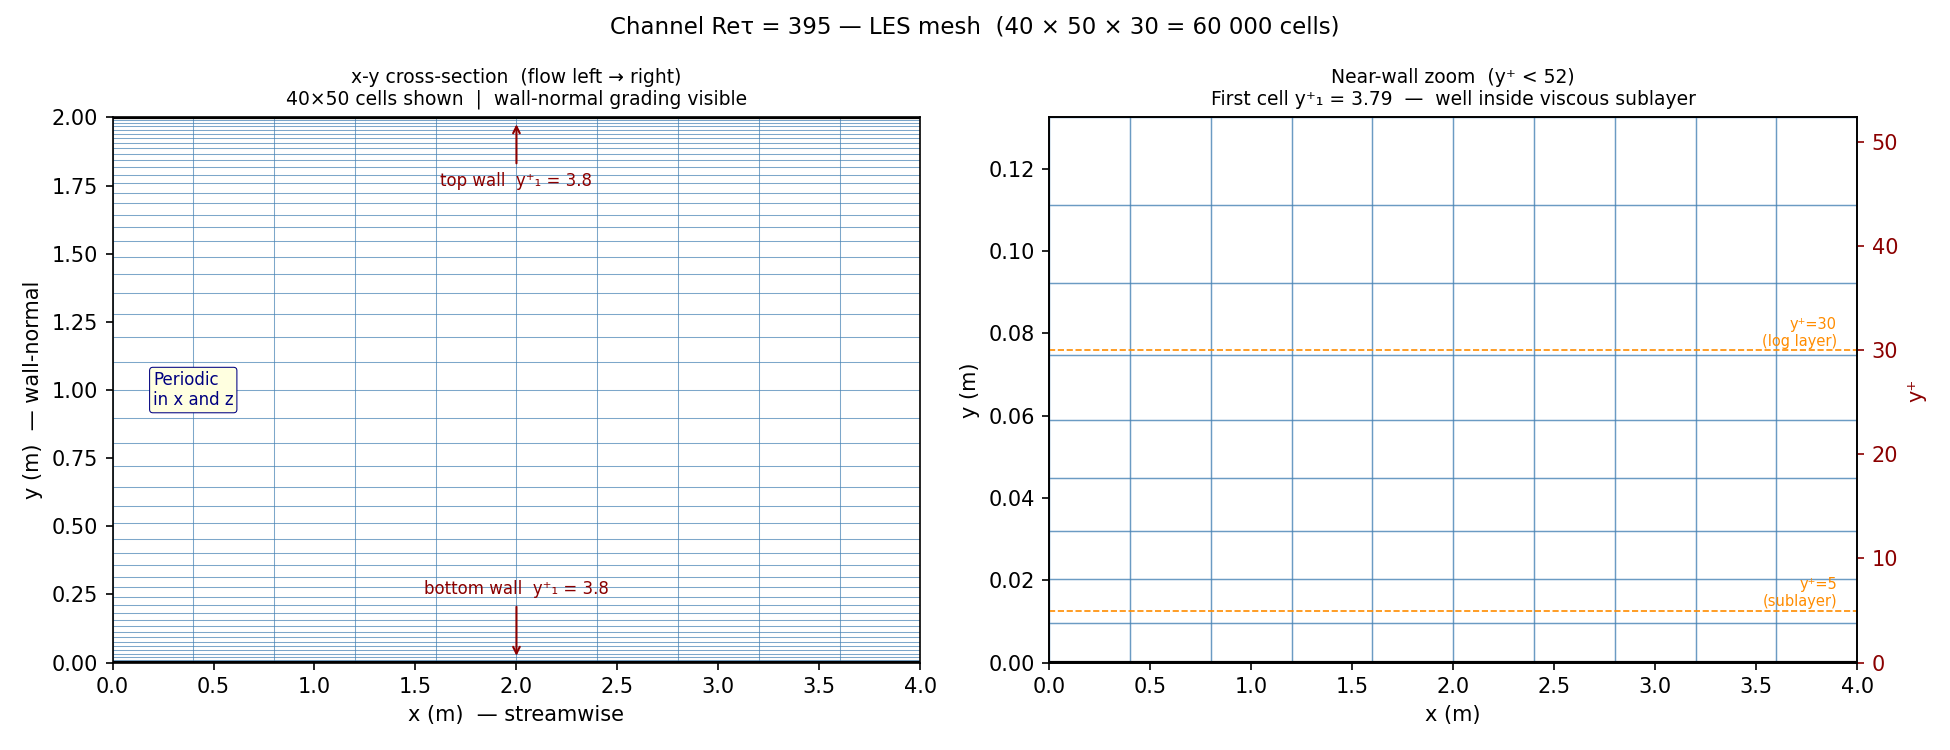
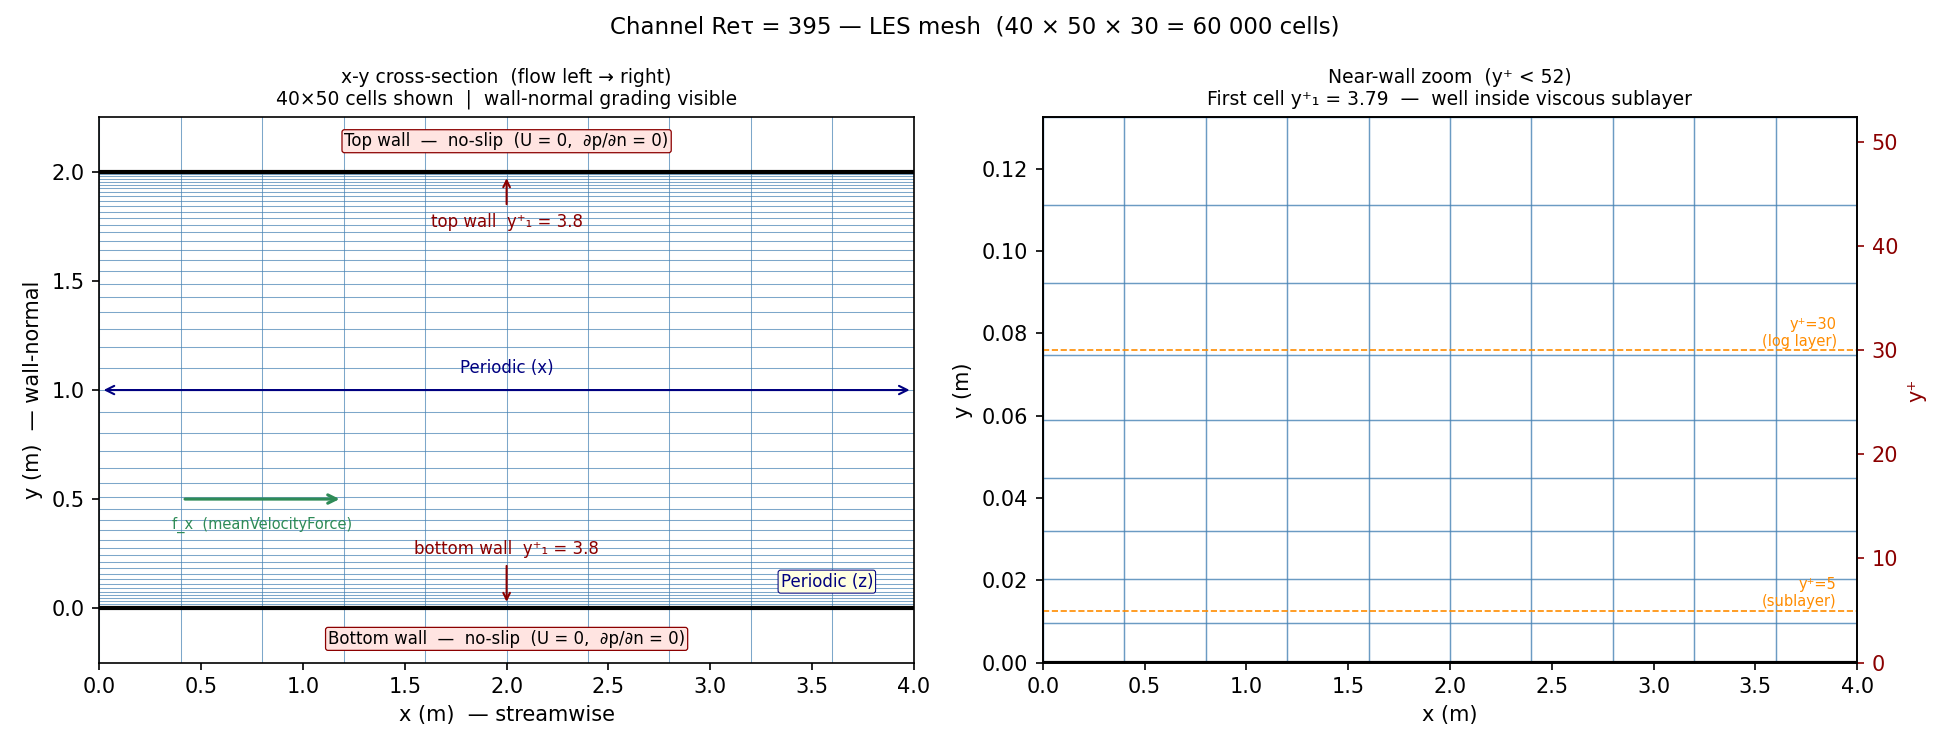
Add velocity contour plots and BC annotations to mesh diagram
- postprocess.py: reads VTK output (foamToVTK) to produce images/contours.png
  showing time-averaged and instantaneous streamwise velocity on z-midplane slice
- render_mesh.py: annotates boundary conditions on full mesh panel (no-slip walls,
  periodic x/z labels, meanVelocityForce body force arrow)

diff --git a/postprocess.py b/postprocess.py
@@ -4,6 +4,7 @@ Validates mean velocity and Reynolds stresses against Moser, Kim & Mansour (1999
 Produces:
   images/convergence.png  — mean streamwise velocity history
   images/validation.png   — U+ vs y+, k+ vs y+, -<u'v'>+ vs y+
+  images/contours.png     — x-y slice of mean and instantaneous streamwise velocity
 """
 
 import numpy as np
@@ -165,3 +166,86 @@ fig.tight_layout()
 fig.savefig(IMAGES / "convergence.png", dpi=150)
 plt.close(fig)
 print("convergence.png done")
+
+# ── Velocity contour plots from VTK (foamToVTK output) ───────────────────────
+VTK_FILE = Path("VTK/openfoam-channel395_5000.vtk")
+if VTK_FILE.exists():
+    try:
+        import vtk as _vtk
+        import vtk.util.numpy_support as vtk_np
+
+        reader = _vtk.vtkUnstructuredGridReader()
+        reader.SetFileName(str(VTK_FILE))
+        reader.ReadAllScalarsOn()
+        reader.ReadAllVectorsOn()
+        reader.Update()
+        grid = reader.GetOutput()
+
+        pts = vtk_np.vtk_to_numpy(grid.GetPoints().GetData())
+        pd  = grid.GetPointData()
+
+        def get_arr(name):
+            a = pd.GetArray(name)
+            return vtk_np.vtk_to_numpy(a) if a else None
+
+        UMean = get_arr("UMean")          # (N,3) time-averaged velocity
+        U_inst = get_arr("U")             # (N,3) instantaneous velocity
+
+        # Extract z-midplane slice (z closest to domain centre z=1.0)
+        z_unique = np.unique(pts[:, 2])
+        z_mid    = z_unique[np.argmin(np.abs(z_unique - 1.0))]
+        mask_z   = np.abs(pts[:, 2] - z_mid) < 1e-4
+
+        x_sl  = pts[mask_z, 0]
+        y_sl  = pts[mask_z, 1]
+        Um_sl = UMean[mask_z, 0]   # streamwise component of time-averaged U
+
+        # Wall units for y-axis label
+        yp_sl = y_sl * u_tau / nu
+        Up_sl = Um_sl / u_tau
+
+        fig, axes = plt.subplots(1, 2, figsize=(14, 4.5))
+
+        # ── Panel 1: mean streamwise velocity UMean_x ─────────────────────────
+        ax = axes[0]
+        sc = ax.scatter(x_sl, y_sl, c=Up_sl, cmap="RdYlBu_r", s=4,
+                        vmin=0, vmax=Up_sl.max() * 1.05, rasterized=True)
+        cb = fig.colorbar(sc, ax=ax, pad=0.02)
+        cb.set_label("U⁺ = ⟨U_x⟩ / u_τ", fontsize=9)
+        ax.axhline(0, color="k", lw=1.5)
+        ax.axhline(2, color="k", lw=1.5)
+        ax.set_xlabel("x (m) — streamwise", fontsize=10)
+        ax.set_ylabel("y (m) — wall-normal", fontsize=10)
+        ax.set_title("Time-averaged streamwise velocity ⟨U_x⟩⁺\n"
+                     f"z-midplane slice  (Reτ = {Re_tau:.0f}, WALE LES)", fontsize=9)
+        ax.set_xlim(0, 4); ax.set_ylim(0, 2)
+
+        # ── Panel 2: instantaneous streamwise velocity ─────────────────────────
+        if U_inst is not None:
+            Ui_sl  = U_inst[mask_z, 0] / u_tau
+            ax2 = axes[1]
+            sc2 = ax2.scatter(x_sl, y_sl, c=Ui_sl, cmap="RdYlBu_r", s=4,
+                              vmin=0, vmax=Ui_sl.max() * 1.05, rasterized=True)
+            cb2 = fig.colorbar(sc2, ax=ax2, pad=0.02)
+            cb2.set_label("U⁺ = U_x / u_τ", fontsize=9)
+            ax2.axhline(0, color="k", lw=1.5)
+            ax2.axhline(2, color="k", lw=1.5)
+            ax2.set_xlabel("x (m) — streamwise", fontsize=10)
+            ax2.set_ylabel("y (m) — wall-normal", fontsize=10)
+            ax2.set_title("Instantaneous streamwise velocity U_x⁺\n"
+                          "(turbulent structures visible near walls)", fontsize=9)
+            ax2.set_xlim(0, 4); ax2.set_ylim(0, 2)
+        else:
+            axes[1].set_visible(False)
+
+        fig.suptitle(f"Channel Reτ = {Re_tau:.0f} — LES velocity field at t = 5000 s",
+                     fontsize=11)
+        fig.tight_layout()
+        fig.savefig(IMAGES / "contours.png", dpi=150, bbox_inches="tight")
+        plt.close(fig)
+        print("contours.png done")
+
+    except ImportError:
+        print("vtk python package not found — skipping contours.png")
+else:
+    print(f"VTK file {VTK_FILE} not found — run foamToVTK first")

diff --git a/render_mesh.py b/render_mesh.py
@@ -55,7 +55,7 @@ for yv in y_all:
 ax.axhline(0, color="k", lw=2)
 ax.axhline(2, color="k", lw=2)
 ax.set_xlim(0, 4)
-ax.set_ylim(0, 2)
+ax.set_ylim(-0.25, 2.25)
 ax.set_xlabel("x (m)  — streamwise", fontsize=10)
 ax.set_ylabel("y (m)  — wall-normal", fontsize=10)
 ax.set_title("x-y cross-section  (flow left → right)\n"
@@ -67,9 +67,28 @@ ax.annotate(f"bottom wall  y⁺₁ = {yp1:.1f}", xy=(2, y_all[1]), xytext=(2, 0.
 ax.annotate(f"top wall  y⁺₁ = {yp1:.1f}", xy=(2, 2 - y_all[1]), xytext=(2, 1.75),
             ha="center", fontsize=8, color="darkred",
             arrowprops=dict(arrowstyle="->", color="darkred"))
-ax.text(0.2, 1.0, "Periodic\nin x and z", ha="left", va="center",
+# Boundary condition annotations
+# Bottom and top walls: no-slip
+ax.text(2.0, -0.10, "Bottom wall  —  no-slip  (U = 0,  ∂p/∂n = 0)",
+        ha="center", va="top", fontsize=8, color="k",
+        bbox=dict(boxstyle="round,pad=0.15", fc="mistyrose", ec="darkred", lw=0.6))
+ax.text(2.0, 2.10, "Top wall  —  no-slip  (U = 0,  ∂p/∂n = 0)",
+        ha="center", va="bottom", fontsize=8, color="k",
+        bbox=dict(boxstyle="round,pad=0.15", fc="mistyrose", ec="darkred", lw=0.6))
+# Periodic in x
+ax.annotate("", xy=(4.0, 1.0), xytext=(0.0, 1.0),
+            arrowprops=dict(arrowstyle="<->", color="navy", lw=1.0))
+ax.text(2.0, 1.06, "Periodic (x)", ha="center", va="bottom",
+        fontsize=8, color="navy")
+# Periodic in z note
+ax.text(3.8, 0.08, "Periodic (z)", ha="right", va="bottom",
         fontsize=8, color="navy",
-        bbox=dict(boxstyle="round,pad=0.2", fc="lightyellow", ec="navy", lw=0.5))
+        bbox=dict(boxstyle="round,pad=0.15", fc="lightyellow", ec="navy", lw=0.5))
+# Body force arrow
+ax.annotate("", xy=(1.2, 0.5), xytext=(0.4, 0.5),
+            arrowprops=dict(arrowstyle="->", color="seagreen", lw=1.5))
+ax.text(0.8, 0.42, "f_x  (meanVelocityForce)", ha="center", va="top",
+        fontsize=7, color="seagreen")
 
 # ── Right: near-wall zoom (y+ < 50) ──────────────────────────────────────────
 ax2 = axes[1]
